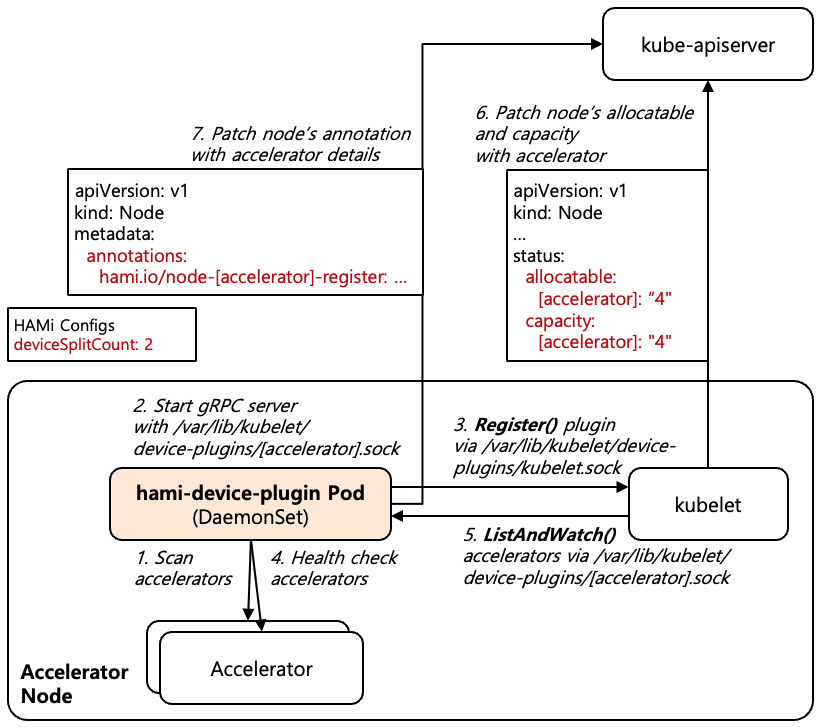
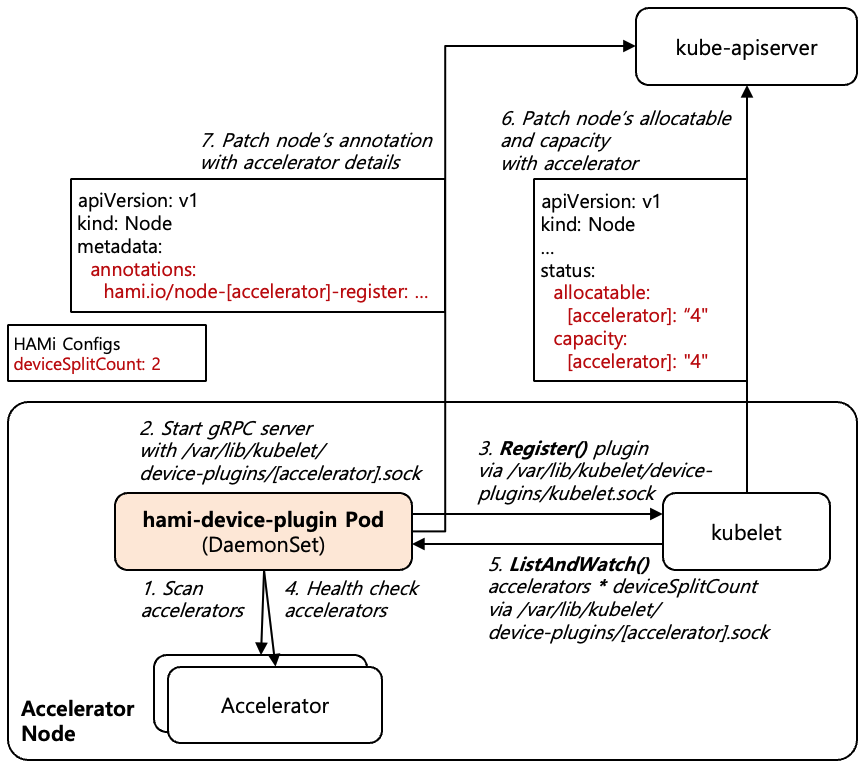
update

diff --git a/content/docs/theory-analysis/kubernetes-hami/index.md b/content/docs/theory-analysis/kubernetes-hami/index.md
@@ -9,7 +9,7 @@ title: Kubernetes HAMi
 {{< table caption="[Table 1] Device Plugin 방식의 한계와 HAMi의 해결 방식" >}}
 | 단계 | Device Plugin 방식의 한계 | HAMi의 해결 방식 |
 |---|---|---|
-| **Resource 요청** | Accelerator를 정수 개수의 Resource로만 다루어 Memory 크기나 Core 사용률을 요청할 수 없다. | Accelerator 개수를 부풀려 등록하고, Memory 크기와 Core 사용률은 별도의 Resource로 요청한다. |
+| **Resource 요청** | Accelerator를 정수 개수의 Resource로만 다루어 Memory 크기나 Core 사용률을 요청할 수 없다. | 물리 Accelerator를 공유할 수 있는 Container 수만큼 Accelerator 개수를 부풀려 등록하고, Memory 크기와 Core 사용률은 별도의 Resource로 요청한다. |
 | **Node 선택** | kube-scheduler는 Node별 Accelerator 개수만 알고, 개별 Accelerator에 남은 Memory 크기와 Core 사용률은 알 수 없다. | HAMi Device Plugin이 Accelerator의 상세 정보를 Node Annotation에 기록하고, HAMi Scheduler가 이를 참조한다. |
 | **Accelerator 선택** | 어떤 Accelerator를 할당할지는 Pod가 Node에 Bind된 이후 kubelet이 Device ID 기준으로 결정하기 때문에, Pod가 요청한 Memory 크기와 Core 사용률을 만족하는 Accelerator가 선택된다는 보장이 없다. | HAMi Scheduler가 Node와 Accelerator를 함께 선택하고, 선택 결과를 Pod Annotation으로 HAMi Device Plugin에 전달한다. |
 | **Accelerator 사용** | Accelerator를 나눠 쓰더라도 각 Pod의 사용량을 제한하는 수단이 없다. | 격리 계층이 Memory 크기와 Core 사용률 제한을 강제한다. |
@@ -29,7 +29,9 @@ title: Kubernetes HAMi
   * **Hardware 수준 격리** : 하드웨어 자체가 물리적으로 분할되어 각 Partition이 독립된 Memory와 Core를 갖는 가상 Accelerator가 생성된다. 분할 가능한 구성은 제조사가 Chip마다 미리 정의한 Template (고정된 Memory와 Core 조합) 집합으로 한정되며, Pod에는 이 Template 중 하나가 할당된다. 격리가 가장 확실한 대신 Template보다 세밀한 분할은 불가능하다.
 * **Monitoring** : [Figure 1]의 **Metrics** 경로와 같이 HAMi Scheduler는 `9395` Port에서 Accelerator별, Pod별 할당 내역을, HAMi Device Plugin의 `vgpu-monitor` Container는 `9394` Port에서 GPU 상태와 Container별 실제 GPU 사용량을 Prometheus Metric으로 제공한다. `vgpu-monitor` Container는 NVIDIA GPU용 HAMi Device Plugin에만 포함되기 때문에 실제 사용량 Metric은 NVIDIA GPU에서만 제공된다.
 
-[Figure 1]의 Node에는 물리 Accelerator가 2개 존재하며, HAMi 설정의 분할 개수 (`deviceSplitCount`) 가 2로 지정되어 있기 때문에 Node의 Allocatable/Capacity에는 4개의 Accelerator가 등록된다. 즉 물리 Accelerator 하나를 최대 2개의 Container가 나눠 쓸 수 있다. Pod A는 Accelerator 2개를 Core 사용률과 Memory 80%로, Pod B는 Accelerator 1개를 Core 사용률과 Memory 20%로 요청하여, Accelerator 1은 Pod A와 Pod B가 함께 사용한다. 분할 개수는 하나의 물리 Accelerator를 공유할 수 있는 Container 수의 상한이기 때문에, Memory와 Core에 여유가 남아 있어도 분할 개수만큼 Container가 할당된 Accelerator에는 더 이상 Container를 할당할 수 없다.
+[Figure 1]의 Node에는 물리 Accelerator가 2개 존재하며, HAMi 설정의 분할 개수 (`deviceSplitCount`) 가 2로 지정되어 있다. 분할 개수는 하나의 물리 Accelerator를 동시에 할당받을 수 있는 Container의 최대 개수이며, [Figure 1]에서는 물리 Accelerator 하나를 최대 2개의 Container가 나눠 쓸 수 있다. 이때 Device Plugin 규격의 제약 때문에 Node의 Allocatable/Capacity에는 물리 Accelerator 개수에 분할 개수를 곱한 4개의 Accelerator가 등록된다. 또한 Pod A는 Accelerator 2개를 Core 사용률과 Memory 80%로, Pod B는 Accelerator 1개를 Core 사용률과 Memory 20%로 요청하여, Accelerator 1은 Pod A와 Pod B가 함께 사용한다.
+
+분할 개수는 Container 수의 상한이기 때문에, Memory와 Core에 여유가 남아 있어도 분할 개수만큼 Container가 할당된 Accelerator에는 더 이상 Container를 할당할 수 없다. 따라서 실제 운영 시에는 하나의 Accelerator를 공유할 Container 수를 고려하여 분할 개수를 여유 있게 설정해야 하며, NVIDIA GPU와 Huawei Ascend NPU의 분할 개수 기본값은 `10`이다.
 
 {{< table caption="[Table 2] HAMi Protocol Device Plugin이 제공되는 주요 Accelerator" >}}
 | Accelerator | Accelerator Resource 이름 | Memory / Core 제한 | 격리 계층 | Device Plugin |
@@ -84,19 +86,19 @@ hygon:
 ...
 ```
 
-[Shell 1]은 `hami-scheduler-device` ConfigMap에 정의된 Accelerator별 Resource 이름 설정을 나타내고 있다. 각 Accelerator Section (`nvidia`, `cambricon`, `hygon` 등) 아래에 개수, Memory, Core Resource 이름이 정의되며, HAMi Device Plugin이 kubelet에 등록할 Resource 이름과 Scheduler Extender가 Pod의 요청에서 인식할 Resource 이름이 이 설정으로 통일된다. 각 Section에는 Resource 이름 외에도 물리 Accelerator 하나의 분할 개수 같은 Accelerator별 설정이 함께 담기며, 설정 항목은 Accelerator마다 다르다.
+[Shell 1]은 `hami-scheduler-device` ConfigMap에 정의된 Accelerator별 Resource 이름 설정을 나타내고 있다. 각 Accelerator Section (`nvidia`, `cambricon`, `hygon` 등) 아래에 개수, Memory, Core Resource 이름이 정의되며, HAMi Device Plugin이 kubelet에 등록할 Resource 이름과 Scheduler Extender가 Pod의 요청에서 인식할 Resource 이름이 이 설정으로 통일된다. 각 Section에는 Resource 이름 외에도 분할 개수 같은 Accelerator별 설정이 함께 담기며, 설정 항목은 Accelerator마다 다르다.
 
 ### 1.1. Accelerator 등록
 
 {{< figure caption="[Figure 2] Accelerator Registration Process" src="images/hami-device-registration.png" width="600px" >}}
 
-Accelerator 등록은 HAMi Device Plugin이 수행하며, Node에 존재하는 물리 Accelerator를 분할 개수만큼 부풀려서 Kubernetes에 등록한다. [Figure 2]는 Accelerator 등록 과정을 나타내고 있다.
+Accelerator 등록은 HAMi Device Plugin이 수행하며, Device Plugin 규격의 제약 때문에 Node에 존재하는 물리 Accelerator를 분할 개수만큼 부풀려서 Kubernetes에 등록한다. [Figure 2]는 Accelerator 등록 과정을 나타내고 있다.
 
 1. HAMi Device Plugin이 `hami-device-plugin` DaemonSet을 통해서 Accelerator Node에서 동작을 시작하며, 분할 개수 (`deviceSplitCount`) 같은 Accelerator별 설정을 읽고 Node의 Accelerator를 탐색하여 UUID, Memory 크기, Core 개수, Type 정보를 파악한다.
 2. HAMi Device Plugin은 `/var/lib/kubelet/device-plugins/` Directory에 자신의 Unix Domain Socket을 생성하고 gRPC Server를 시작한다. Socket 파일 이름은 Device Plugin마다 다르며, NVIDIA GPU는 `nvidia-gpu.sock`을 이용한다.
 3. HAMi Device Plugin은 kubelet의 Unix Domain Socket (`/var/lib/kubelet/device-plugins/kubelet.sock`) 을 통해서 `Register()` gRPC 요청을 전송하여 Plugin 자신을 kubelet에 등록한다. 요청에는 Resource 이름과 2단계에서 생성한 Socket 파일 이름이 포함된다.
 4. HAMi Device Plugin은 등록 이후 Accelerator의 Health 상태 확인을 시작한다. 장애를 감지하면 해당 물리 Accelerator에서 부풀려진 항목을 `Unhealthy` 상태로 kubelet에 다시 전달하고, Node Annotation의 `health` 값도 갱신하여 해당 Accelerator가 할당 후보에서 제외되도록 한다.
-5. kubelet은 전달받은 Socket을 통해서 HAMi Device Plugin에게 `ListAndWatch()` gRPC 요청을 전송하여 Accelerator 목록을 수신한다. 이때 HAMi Device Plugin은 물리 Accelerator의 개수를 분할 개수 설정 (`deviceSplitCount`) 의 배수만큼 부풀려서 전달한다. kubelet은 하나의 Device ID를 한 번에 하나의 Container에만 할당하기 때문에, 하나의 물리 Accelerator를 여러 Container가 공유하려면 서로 다른 Device ID가 공유할 Container 수만큼 필요하기 때문이다.
+5. kubelet은 전달받은 Socket을 통해서 HAMi Device Plugin에게 `ListAndWatch()` gRPC 요청을 전송하여 Accelerator 목록을 수신한다. 이때 HAMi Device Plugin은 물리 Accelerator마다 분할 개수 (`deviceSplitCount`) 만큼의 Device ID를 만들어 부풀려서 전달한다. kubelet은 하나의 Device ID를 한 번에 하나의 Container에만 할당하기 때문에, 하나의 물리 Accelerator를 최대 분할 개수의 Container가 공유하려면 그만큼의 서로 다른 Device ID가 필요하기 때문이다.
 6. kubelet은 전달받은 Accelerator 개수를 kube-apiserver를 통해서 Node의 Allocatable/Capacity에 반영한다.
 7. HAMi Device Plugin은 Device Plugin 규격과 별도로 물리 Accelerator의 상세 정보를 `hami.io/node-[accelerator]-register` Node Annotation에 기록한다.
 

diff --git a/content/docs/theory-analysis/kubernetes-hami/index.en.md b/content/docs/theory-analysis/kubernetes-hami/index.en.md
@@ -9,7 +9,7 @@ title: Kubernetes HAMi
 {{< table caption="[Table 1] Limitations of the Device Plugin approach and HAMi's solutions" >}}
 | Stage | Limitation of the Device Plugin approach | HAMi's solution |
 |---|---|---|
-| **Resource Request** | Accelerators are handled only as integer-count Resources, so Memory size or Core utilization cannot be requested. | Registers an inflated Accelerator count, and Memory size and Core utilization are requested as separate Resources. |
+| **Resource Request** | Accelerators are handled only as integer-count Resources, so Memory size or Core utilization cannot be requested. | Registers the Accelerator count inflated by the number of Containers that can share a physical Accelerator, and Memory size and Core utilization are requested as separate Resources. |
 | **Node Selection** | kube-scheduler knows only the Accelerator count per Node and cannot know the remaining Memory size and Core utilization of each Accelerator. | HAMi Device Plugin records the detailed Accelerator information in a Node Annotation, and HAMi Scheduler refers to it. |
 | **Accelerator Selection** | Which Accelerator to allocate is decided by kubelet based on Device IDs after the Pod is bound to a Node, so there is no guarantee that an Accelerator satisfying the Memory size and Core utilization requested by the Pod is selected. | HAMi Scheduler selects the Node and the Accelerator together and delivers the result to HAMi Device Plugin through Pod Annotations. |
 | **Accelerator Usage** | Even when an Accelerator is shared, there is no means to limit the usage of each Pod. | The isolation layer enforces the Memory size and Core utilization limits. |
@@ -29,7 +29,9 @@ However, since the Device Plugin specification only allows limited information s
   * **Hardware-level Isolation** : The hardware itself is physically partitioned, creating virtual Accelerators in which each Partition has independent Memory and Cores. The possible configurations are limited to the set of Templates (fixed Memory and Core combinations) predefined by the vendor for each Chip, and one of these Templates is allocated to a Pod. The isolation is the most reliable, but partitioning finer than the Templates is not possible.
 * **Monitoring** : As in the **Metrics** path of [Figure 1], HAMi Scheduler provides the per-Accelerator and per-Pod allocation history on the `9395` Port, and the `vgpu-monitor` Container of HAMi Device Plugin provides the GPU state and the actual GPU usage of each Container on the `9394` Port, as Prometheus Metrics. Since the `vgpu-monitor` Container is included only in the HAMi Device Plugin for NVIDIA GPU, the actual usage Metrics are provided only for NVIDIA GPU.
 
-The Node in [Figure 1] has 2 physical Accelerators, and since the split count (`deviceSplitCount`) in the HAMi settings is set to 2, 4 Accelerators are registered in the Allocatable/Capacity of the Node. That is, one physical Accelerator can be shared by up to 2 Containers. Pod A requests 2 Accelerators with 80% Core utilization and Memory, and Pod B requests 1 Accelerator with 20% Core utilization and Memory, so Accelerator 1 is shared by Pod A and Pod B. Since the split count is the upper limit on the number of Containers that can share one physical Accelerator, no more Containers can be allocated to an Accelerator that already has as many Containers as the split count, even if Memory and Cores remain.
+The Node in [Figure 1] has 2 physical Accelerators, and the split count (`deviceSplitCount`) in the HAMi settings is set to 2. The split count is the maximum number of Containers that can be allocated one physical Accelerator at the same time, and in [Figure 1], one physical Accelerator can be shared by up to 2 Containers. Due to a constraint of the Device Plugin specification, 4 Accelerators, the number of physical Accelerators multiplied by the split count, are registered in the Allocatable/Capacity of the Node. Also, Pod A requests 2 Accelerators with 80% Core utilization and Memory, and Pod B requests 1 Accelerator with 20% Core utilization and Memory, so Accelerator 1 is shared by Pod A and Pod B.
+
+Since the split count is the upper limit on the number of Containers, no more Containers can be allocated to an Accelerator that already has as many Containers as the split count, even if Memory and Cores remain. Therefore, in actual operation, the split count should be set generously considering the number of Containers that will share one Accelerator, and the default split count for NVIDIA GPU and Huawei Ascend NPU is `10`.
 
 {{< table caption="[Table 2] Major Accelerators with HAMi Protocol Device Plugins" >}}
 | Accelerator | Accelerator Resource Name | Memory / Core Limit | Isolation Layer | Device Plugin |
@@ -84,19 +86,19 @@ hygon:
 ...
 ```
 
-[Shell 1] shows the per-Accelerator Resource name settings defined in the `hami-scheduler-device` ConfigMap. Under each Accelerator Section (`nvidia`, `cambricon`, `hygon`, etc.), the count, Memory, and Core Resource names are defined, and this setting unifies the Resource names that HAMi Device Plugin registers with kubelet and the Resource names that the Scheduler Extender recognizes in Pod requests. In addition to Resource names, each Section also contains per-Accelerator settings such as the split count of one physical Accelerator, and the setting items differ for each Accelerator.
+[Shell 1] shows the per-Accelerator Resource name settings defined in the `hami-scheduler-device` ConfigMap. Under each Accelerator Section (`nvidia`, `cambricon`, `hygon`, etc.), the count, Memory, and Core Resource names are defined, and this setting unifies the Resource names that HAMi Device Plugin registers with kubelet and the Resource names that the Scheduler Extender recognizes in Pod requests. In addition to Resource names, each Section also contains per-Accelerator settings such as the split count, and the setting items differ for each Accelerator.
 
 ### 1.1. Accelerator Registration
 
 {{< figure caption="[Figure 2] Accelerator Registration Process" src="images/hami-device-registration.png" width="600px" >}}
 
-Accelerator registration is performed by HAMi Device Plugin, which inflates the physical Accelerators on the Node by the split count and registers them with Kubernetes. [Figure 2] shows the Accelerator registration process.
+Accelerator registration is performed by HAMi Device Plugin, which, due to a constraint of the Device Plugin specification, inflates the physical Accelerators on the Node by the split count and registers them with Kubernetes. [Figure 2] shows the Accelerator registration process.
 
 1. HAMi Device Plugin starts running on the Accelerator Node through the `hami-device-plugin` DaemonSet, reads per-Accelerator settings such as the split count (`deviceSplitCount`), and discovers the Node's Accelerators to obtain their UUID, Memory size, Core count, and Type.
 2. HAMi Device Plugin creates its own Unix Domain Socket in the `/var/lib/kubelet/device-plugins/` Directory and starts the gRPC Server. The Socket file name differs for each Device Plugin, and NVIDIA GPU uses `nvidia-gpu.sock`.
 3. HAMi Device Plugin sends a `Register()` gRPC request through kubelet's Unix Domain Socket (`/var/lib/kubelet/device-plugins/kubelet.sock`) to register the Plugin itself with kubelet. The request includes the Resource name and the Socket file name created in step 2.
 4. After registration, HAMi Device Plugin starts checking the Health state of the Accelerators. When it detects a failure, it sends the items inflated from that physical Accelerator back to kubelet in the `Unhealthy` state, and also updates the `health` value of the Node Annotation so that the Accelerator is excluded from allocation candidates.
-5. kubelet sends a `ListAndWatch()` gRPC request to HAMi Device Plugin through the received Socket and receives the Accelerator list. At this time, HAMi Device Plugin inflates the number of physical Accelerators by a multiple of the split count setting (`deviceSplitCount`). This is because kubelet allocates one Device ID to only one Container at a time, so sharing one physical Accelerator among multiple Containers requires as many distinct Device IDs as the number of sharing Containers.
+5. kubelet sends a `ListAndWatch()` gRPC request to HAMi Device Plugin through the received Socket and receives the Accelerator list. At this time, HAMi Device Plugin inflates the list by creating as many Device IDs as the split count (`deviceSplitCount`) for each physical Accelerator. This is because kubelet allocates one Device ID to only one Container at a time, so sharing one physical Accelerator among up to the split count of Containers requires that many distinct Device IDs.
 6. kubelet reflects the received Accelerator count in the Node's Allocatable/Capacity through kube-apiserver.
 7. Separately from the Device Plugin specification, HAMi Device Plugin records the detailed information of the physical Accelerators in the `hami.io/node-[accelerator]-register` Node Annotation.
 

diff --git a/content/docs/theory-analysis/kubernetes-hami/CLAUDE.md b/content/docs/theory-analysis/kubernetes-hami/CLAUDE.md
@@ -11,6 +11,11 @@ HAMi 자체(이기종 AI 가속기 가상화 Middleware)에 포커스를 두고 
 
 ## 문서 구성 및 상태
 
+- **2026-11-22 상한 문단에 운영 권고 + 기본값 추가** (사용자 요청, KR/EN): 기본값 10은 Chart values.yaml `devices.nvidia.deviceSplitCount`, `vnpus.deviceSplitCount` 기준(AMD는 Plugin 옵션 `splitCount` 기본 10, gfx12+는 2라 본문 미기재).
+- **2026-11-22 분할 개수 서술 방향 정리** (사용자 요청, KR/EN 동시): "분할 개수 = 물리 Accelerator 하나를 동시에 할당받을 수 있는 Container 최대 개수"를
+  정의로 먼저 두고, 부풀림은 "Device Plugin 규격의 제약(kubelet Device ID 독점 할당) 때문"으로 서술. 변경: [Table 1] Resource 요청 행, [Figure 1] 예시 문단
+  (정의 → 4개 등록은 규격 제약), 상한 문단 축약, [Shell 1] 문단, 1.1 도입, 5단계(물리 Accelerator마다 분할 개수만큼 Device ID 생성). 근거 Fit 검사
+  (pkg/device/nvidia/device.go: CardTimeSlicingExhausted, CardInsufficientMemory/Core, ExclusiveDeviceAllocateConflict, CardComputeUnitsExhausted).
 - **2026-11-22 1.1 5단계에 부풀림 이유 1문장 추가, 기존 "물리 2개 × 분할 2 = 4개" 예시 문장 삭제** (사용자 요청, KR/EN 동시): kubelet Device Manager는 Device ID를 Container에 독점 할당 →
   공유하려면 공유 Container 수만큼 서로 다른 ID 필요(HAMi `<UUID>-<n>`, NVIDIA Device Plugin Time-slicing도 `<UUID>::<n>` Replica). 일반 Kubernetes 동작 기반.
 - **2026-11-22 [Figure 1] 예시 문단에 분할 개수 상한 1문장 추가** (분할 개수 1 예시 문장은 사용자 요청으로 제거) (사용자 요청, KR/EN 동시): 분할 개수 = Accelerator당 Container 수 상한,
